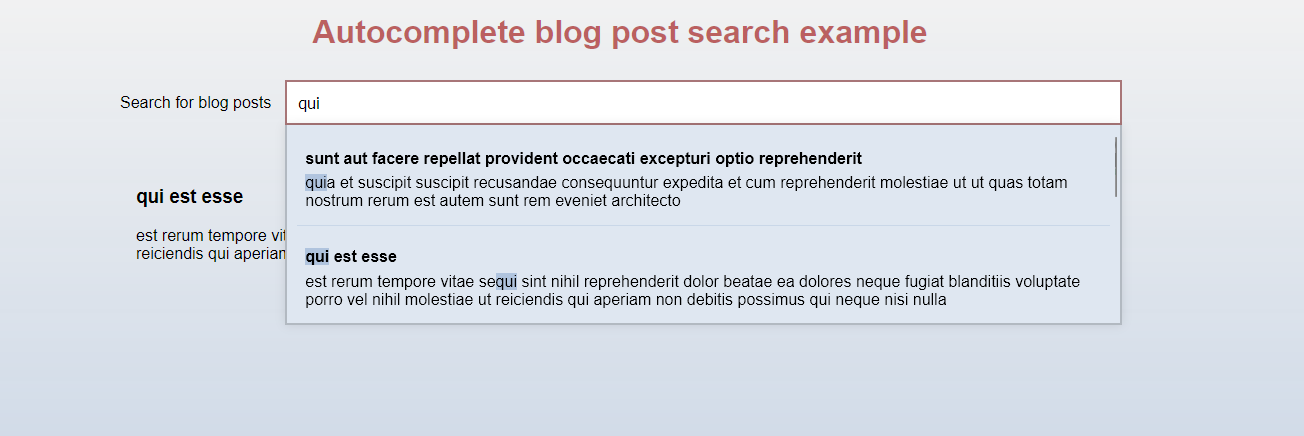
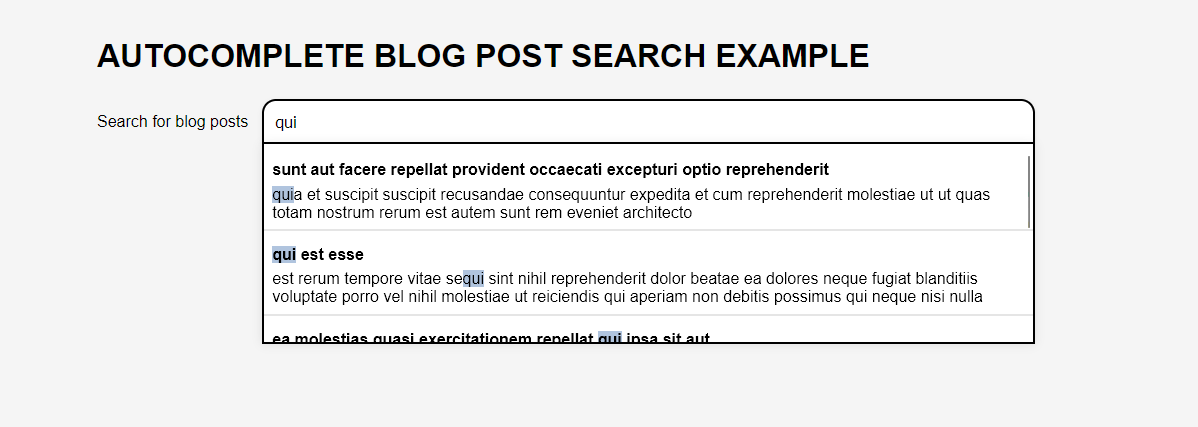
update styles

diff --git a/index.html b/index.html
@@ -14,21 +14,18 @@
         body {
             margin: 0;
             font-family: sans-serif;
-            background: linear-gradient(rgba(0, 0, 0, 0.05), lightsteelblue);
-            background-size: cover;
-            min-height: 100vh;
+            background-color: whitesmoke;
         }
 
         .main-content {
             max-width: 1000px;
             margin: 0 auto;
-            display: grid;
-            place-items: center;
+            padding: 2em;
+            min-height: 100vh;
         }
 
-        h2 {
-            font-size: 2rem;
-            color: hsla(0, 100%, 30%, 0.6);
+        h1 {
+            text-transform: uppercase;
         }
 
         .searchbox {
@@ -48,17 +45,24 @@
 
         input {
             border: 1px solid transparent;
-            background-color: white;
             padding: 10px;
             font-size: 16px;
             width: 200px;
             transition: width 500ms ease;
             transition-delay: 100ms;
+            border-radius: 12px;
+            background-color: white;
+            box-shadow: 0 2px 5px rgba(0, 0, 0, 0.2);
         }
 
         input:is(:focus) {
             width: 100%;
-            outline: 2px solid hsla(0, 100%, 20%, 0.5);
+            outline: 2px solid black;
+        }
+
+        input.border {
+            border-bottom-left-radius: 0;
+            border-bottom-right-radius: 0;
         }
 
         .blog-preview .title {
@@ -75,26 +79,22 @@
             width: calc(100% + 4px);
             max-height: 200px;
             overflow-y: scroll;
-            background-color: hsl(214, 41%, 91%);
+            background-color: #fff;
             box-shadow: 0 0 10px rgba(0, 0, 0, 0.1);
-            border: 2px solid rgba(0, 0, 0, 0.2);
+            border: 2px solid black;
             border-top: 2px transparent;
         }
 
         .search-result-list.active {
             display: grid;
-            grid-gap: 1em;
-        }
-
-        .search-result-list {
-            padding: 10px;
         }
 
         .search-result-list>div {
             position: relative;
             padding: 0.5em;
             cursor: pointer;
-            scroll-margin-bottom: 12px;
+            scroll-margin-bottom: 10px;
+            margin-top: 2px;
         }
 
         .search-result-list>div:not(:last-child)::after {
@@ -102,14 +102,14 @@
             position: absolute;
             left: 0;
             width: 100%;
-            top: calc(100% + 0.5em);
-            border-top: 1px solid hsl(214, 41%, 85%);
+            top: calc(100%);
+            border-top: 2px solid rgba(0, 0, 0, 0.1);
             outline: none;
         }
 
         .search-result-list>div:is(:hover),
         .search-result-list>div.selected {
-            background-color: hsl(214, 41%, 95%);
+            background-color: rgba(0, 0, 0, 0.1);
         }
 
         mark {
@@ -131,7 +131,7 @@
     <!-- Main content -->
     <div class="main-content">
 
-        <h2>Autocomplete blog post search example</h2>
+        <h1>Autocomplete blog post search example</h1>
 
         <!-- Searchbox -->
         <div class="searchbox">
@@ -186,7 +186,10 @@
         searchBar.addEventListener("focusout", function (e) {
             searchBar.parentElement.style.flexGrow = 0;
             selectedIndex = -1;
-            setTimeout(() => resultList.classList.remove("active"), 100);
+            setTimeout(() => {
+                resultList.classList.remove("active");
+                searchBar.classList.remove("border")
+            }, 100);
         });
 
         // Add enter eventlistener
@@ -257,10 +260,14 @@
             // Return if no search value
             if (!searchBar.value) {
                 resultList.classList.remove("active");
+                searchBar.classList.remove("border")
                 return;
             }
             // Make result list active
-            setTimeout(() => resultList.classList.add("active"), 600);
+            setTimeout(() => {
+                resultList.classList.add("active");
+                searchBar.classList.add("border")
+            }, 600);
 
             // Placeholder API
             blogPosts = await fetch('https://jsonplaceholder.typicode.com/posts').then(response => response.json());
